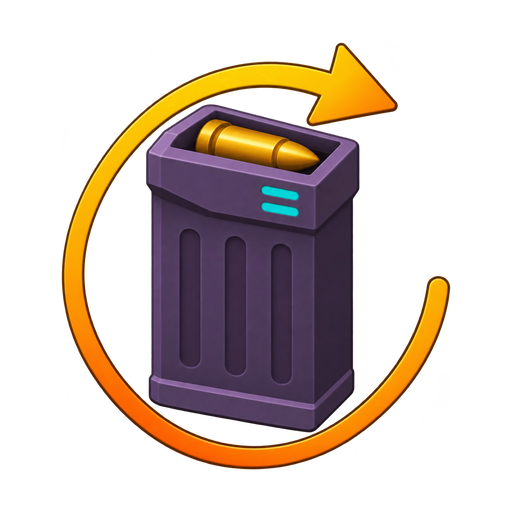
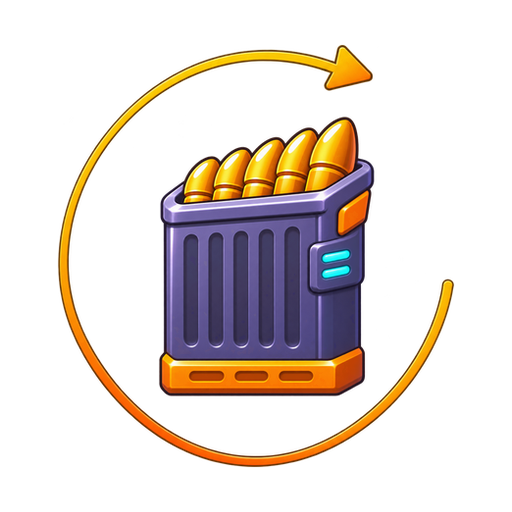
Gerades Magazin mit schlankem Nachladepfeil kombinieren

diff --git a/Vorlage_Raw/Kartenmotive_v2/LIESMICH_CLAUDE.md b/Vorlage_Raw/Kartenmotive_v2/LIESMICH_CLAUDE.md
@@ -4,6 +4,6 @@
 
 Die Dateinamen entsprechen der Zuordnung aus `KARTENMOTIVE_FUER_CHATGPT.md`. Für den Einbau auf 320 × 320 Pixel verkleinern und mit identischem Dateistamm als `game/ui/karten/<Name>.webp` speichern. Die Übersicht zeigt alle Motive mit 70 Pixeln auf `#28203F`.
 
-Die Raketensalve zeigt fünf schlanke Raketen in Violett, Goldorange und Cyan. Der Gewittersturm hat kantigere Wolkenformen bei gleicher Farbpalette. Die Dampfwalze hat eine einzelne Dampfwolke. Das größere Magazin ist gerader. Beim goldenen Nachladepfeil ist die Bodenplatte an der Perspektive der oberen Öffnung ausgerichtet, und ein sichtbarer Spalt trennt Pfeil und Magazin.
+Die Raketensalve zeigt fünf schlanke Raketen in Violett, Goldorange und Cyan. Der Gewittersturm hat kantigere Wolkenformen bei gleicher Farbpalette. Die Dampfwalze hat eine einzelne Dampfwolke. Das goldene Nachlademotiv verwendet dasselbe gerade Magazin mit den sichtbaren Patronen wie `held_mag.png`. Das Magazin wurde proportional verkleinert und mit einem schmaleren goldenen Ladepfeil kombiniert. Ein sichtbarer Spalt trennt beide Motive.
 
 Die räumliche Wirkung ist Teil der PNG-Illustration. Die 31 Motive wurden mit der eingebauten Bildgenerierung aus den Beschreibungen der Auftragsdatei und den bisherigen Kartenmotiven als Stilreferenzen erstellt.
